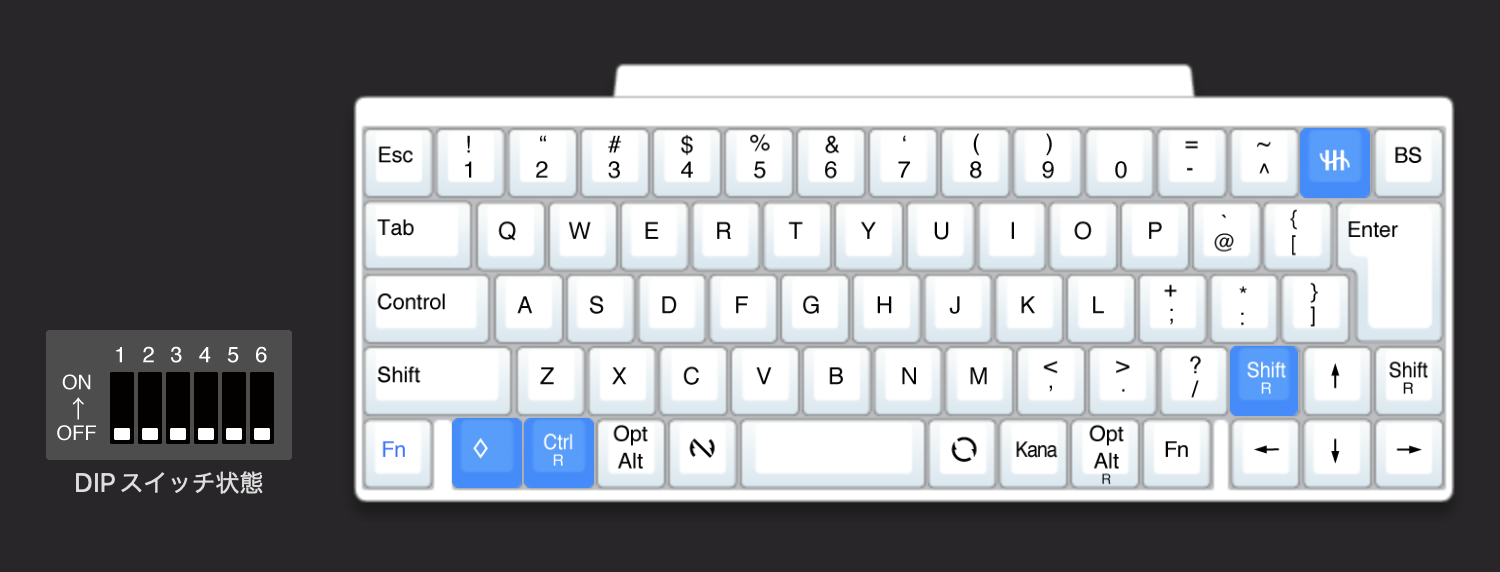
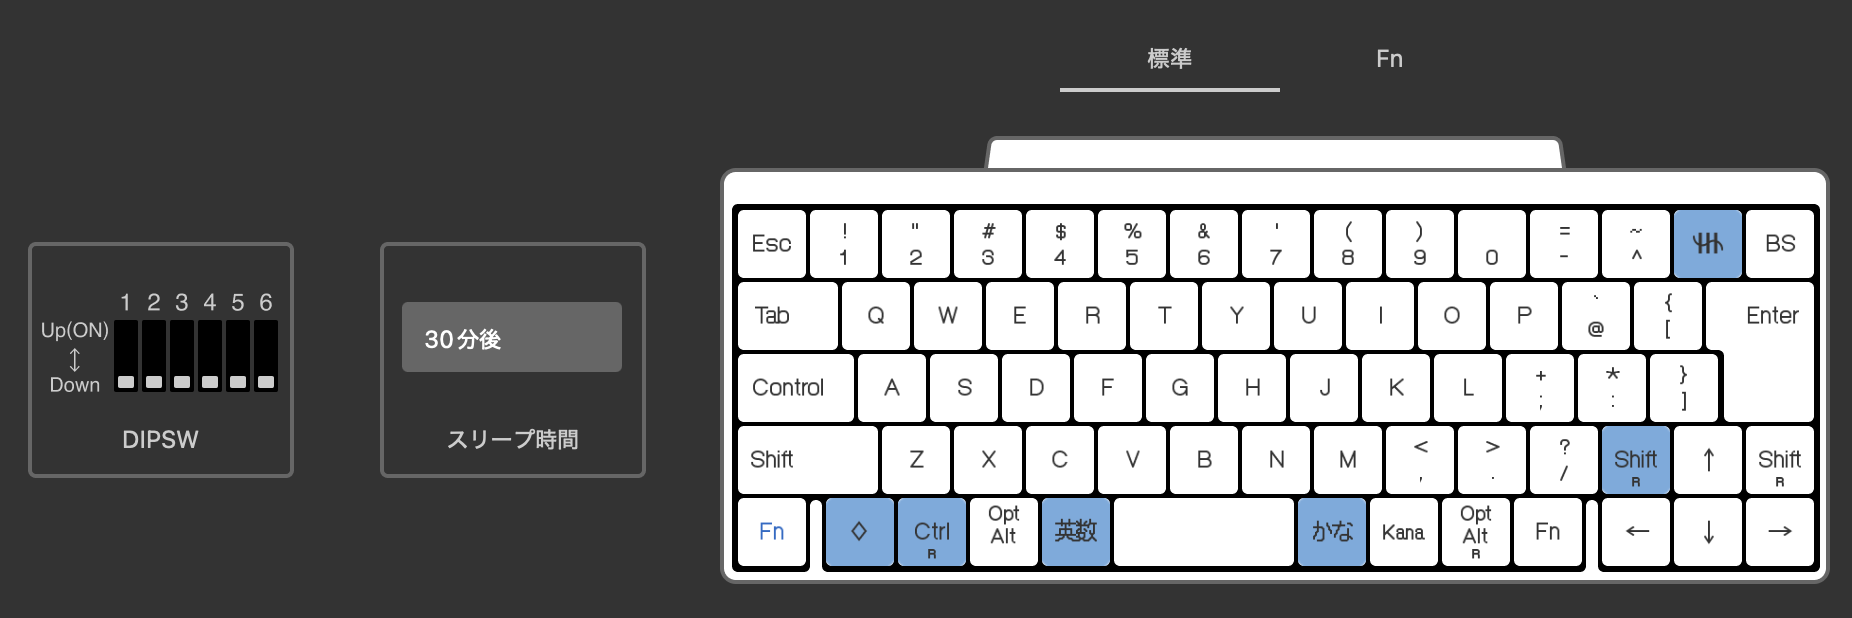
HHKB周りの話を更新

diff --git a/posts/blog/hhkb-jis-win-mac/index.md b/posts/blog/hhkb-jis-win-mac/index.md
@@ -5,14 +5,16 @@ publishedIndex: 0
 tags: [HHKB]
 ---
 
+※2026/03/05 追記：設定を少し見直しました。
+
 普段 HHKB HYBRID の JIS 配列を使っていますが、macOS と Windows を同じデバイスで切り替えて使っていると、いくつか問題とは言えなくとも違和感を感じることがあります。
 
 前提条件として、背面スイッチは全てオフの状態で使っています。  
 <https://happyhackingkb.com/jp/products/discontinued/hhkb_backview.html>
 
-- Windows の Ctrl 関連のショートカットは macOS では Cmd になる。
-  - ついでに macOS の Cmd は Windows では Win キーになる。
-- スペースの両横にあるキーは Windows では無変換と変換だが、macOS だとそもそも使えない。（Windows モードの場合）
+- Windows の Ctrl 関連のショートカットは macOS では Cmd になりがち。
+    - ついでに macOS の Cmd は Windows では Win キーになる。
+- スペースの両横にあるキーは Windows では「無変換」「変換」だが、macOS だとそもそも使えない。（Windows モードの場合）
 
 これらは問題とは言えませんが、頻繁に切り替えて使っているとそれなりにストレスになります。また、Windows モードと Macintosh モードをキーで切り替えることも可能ですが、変更したかどうかに脳のリソースを持っていかれるため避けたいです。  
 そこで、それらをいい感じに解消できる設定をしばらく使っていたので、その設定を備忘録として残しておきます。
@@ -35,7 +37,7 @@ macOS でいつもの位置で Cmd を使え、Windows でも macOS と同じ位
 
 ## Windows での設定 （お好み）
 
-無変換・変換キーの位置は macOS ではかな・英数キーになっていて、macOS では変換ボタンの役割はなく IME のオンオフなので、Windows もそれに合わせます。
+「無変換」「変換」は macOS では「英数」「かな」になっていて、macOS では変換ボタンの役割はなく IME のオン/オフなので、Windows もそれに合わせます。
 
 設定 > 時刻と言語 > 言語と地域 > 日本語の言語のオプション > Microsoft IME のキーボードオプション > キータッチのカスタマイズ でキーの割り当てを変更します。
 
@@ -44,12 +46,16 @@ macOS でいつもの位置で Cmd を使え、Windows でも macOS と同じ位
 
 ![windows-ime](./static/windows-ime.png)
 
+ちなみに、Windows にこの設定を入れるのであれば、そもそも「英数」「かな」と設定するのでもいいですね。
+
+![keymap-win-ime](./static/hhkb-keymap-win-ime.png)
+
 ## macOS での設定
 
 このままではかな・英数キーが使えないため、Karabiner-Elements を使って設定します。  
 <https://karabiner-elements.pqrs.org/>
 
-まず、かな英数キーを使えるように設定します。  
+まず、かな英数キーを使えるように設定します。(「英数」「かな」と設定している場合は不要です)
 
 - PC キーボードの無変換キー -> 英数キー
 - PC キーボードの変換キー -> かなキー
@@ -66,5 +72,5 @@ macOS でいつもの位置で Cmd を使え、Windows でも macOS と同じ位
 
 ## おまけ
 
-実は今は HHKB の JIS 配列のものを US 配列として使ってみています。（だから忘れないうちにこの記事を書いた）  
-これは色々試してみている段階で、慣れてきて使っていこうとなったらまた設定を残しておこうと思います。
+実は今は HHKB の JIS 配列のものを US 配列として使っています。おすすめです。  
+[HHKBのJIS配列をUS配列としていい感じに使う](/posts/hhkb-jis-us)
